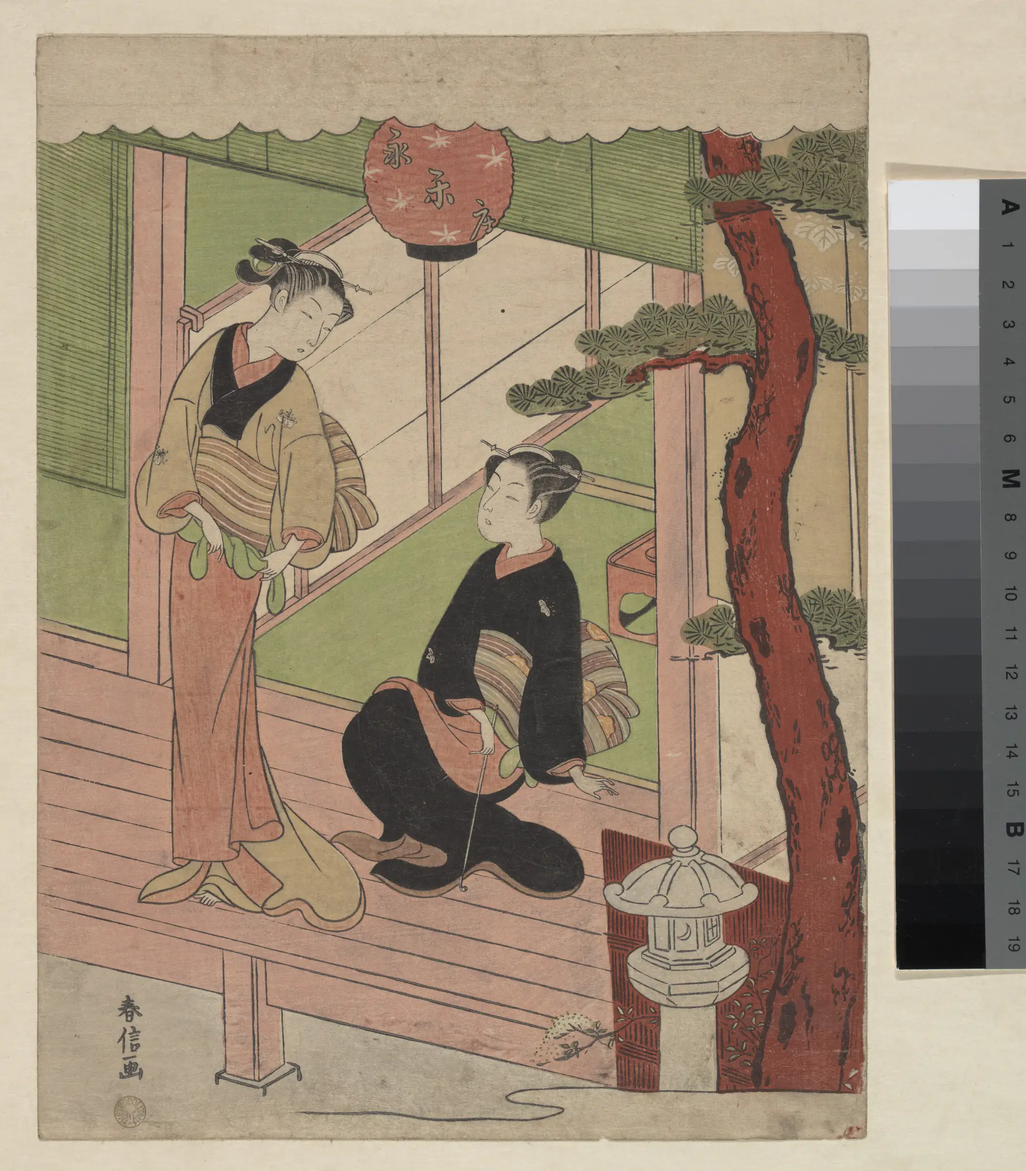
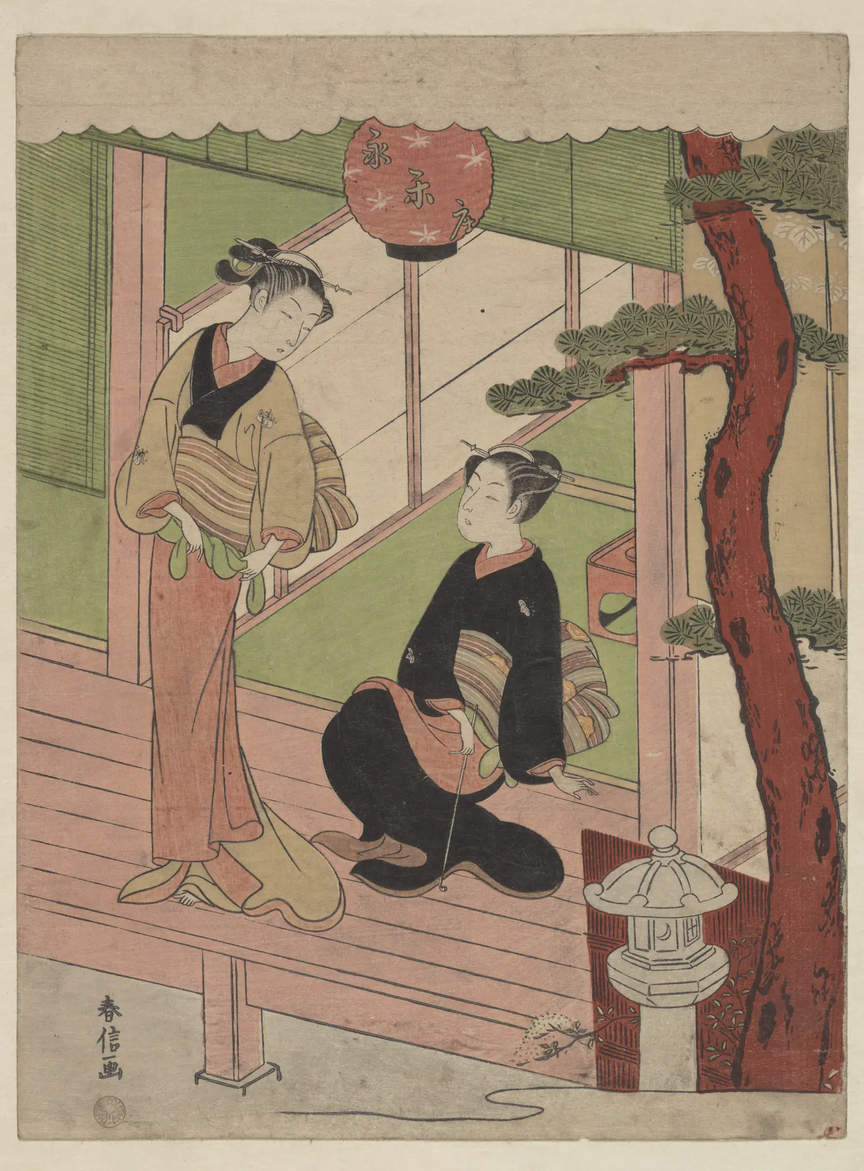
fix(met): cut a scan's grey scale off before sizing it

diff --git a/packages/met/src/import/run-import.ts b/packages/met/src/import/run-import.ts
@@ -11,7 +11,7 @@ import { readJpegHeader } from '../image/jpeg-header.js';
 import { readPreviousCatalog, serialiseCatalog, stampCatalog } from './catalog-file.js';
 import { encodeMaster, type MasterSettings } from './master.js';
 import { ensureOriginal } from './original-cache.js';
-import { assertSellable } from './sellable.js';
+import { assertSellable, CurationError } from './sellable.js';
 
 export interface ImportOptions {
   readonly client: Pick<CollectionClient, 'object' | 'download'>;
@@ -65,10 +65,21 @@ export async function runImport(options: ImportOptions): Promise<ImportResult> {
     const original = await ensureOriginal(client, cacheDir, entry.objectId, raw.primaryImage);
     if (original.downloaded) downloaded++;
     const header = await withFileSource(original.path, readJpegHeader);
-    const encoded = await encodeMaster(original.path, master);
-    // The master is the original turned upright and scaled, so it keeps its
-    // shape; if it does not, the header was misread and every size with it.
-    if (encoded.width > encoded.height !== header.width > header.height) {
+    const crop = entry.crop ?? null;
+    if (
+      crop !== null &&
+      (crop.left + crop.width > header.width || crop.top + crop.height > header.height)
+    ) {
+      throw new CurationError(
+        `${label}: the crop runs past the ${header.width}x${header.height} original`,
+      );
+    }
+    // What the print is made from: the whole original, or the part the crop keeps.
+    const scan = crop ?? header;
+    const encoded = await encodeMaster(original.path, master, crop);
+    // The master is the scan turned upright and scaled, so it keeps its shape;
+    // if it does not, the header was misread and every size with it.
+    if (encoded.width > encoded.height !== scan.width > scan.height) {
       throw new Error(`${label}: the header and the decoded image disagree on orientation`);
     }
 
@@ -96,16 +107,18 @@ export async function runImport(options: ImportOptions): Promise<ImportResult> {
         file,
         width: encoded.width,
         height: encoded.height,
-        originalWidth: header.width,
-        originalHeight: header.height,
+        originalWidth: scan.width,
+        originalHeight: scan.height,
+        crop,
         sha256: createHash('sha256').update(encoded.data).digest('hex'),
         sourceUrl: raw.primaryImage,
       },
     });
 
-    const largest = availableSizes(header).at(-1)?.size ?? 'no size';
+    const largest = availableSizes(scan).at(-1)?.size ?? 'no size';
     log(
-      `${index + 1}/${curation.length} ${label}: ${header.width}x${header.height}` +
+      `${index + 1}/${curation.length} ${label}: ${scan.width}x${scan.height}` +
+        `${crop === null ? '' : ` of ${header.width}x${header.height}`}` +
         `${original.downloaded ? ' (downloaded)' : ''}, prints up to ${largest}; ` +
         `master ${encoded.width}x${encoded.height}, ${Math.round(encoded.data.length / 1024)} KiB`,
     );

diff --git a/packages/met/src/curation.ts b/packages/met/src/curation.ts
@@ -1,10 +1,24 @@
-/** A work Deckle sells: The Met's object, and the two things the shop adds to it. */
+/** A rectangle of an original, in its pixels, measured with the image upright. */
+export interface Crop {
+  readonly left: number;
+  readonly top: number;
+  readonly width: number;
+  readonly height: number;
+}
+
+/** A work Deckle sells: The Met's object, and what the shop adds to it. */
 export interface CuratedWork {
   readonly objectId: number;
   /** Short and readable, unique, and stable once published: URLs and seeds key on it. */
   readonly slug: string;
   /** The Met's title, shortened by hand only where it runs to a sentence or carries its series. */
   readonly shortTitle: string;
+  /**
+   * The part of the original that is the print, where The Met photographed it
+   * beside a grey scale: the shop sells the print, not the museum's target.
+   * The master and the print sizes come from this part alone.
+   */
+  readonly crop?: Crop;
 }
 
 /**
@@ -136,6 +150,9 @@ export const curation: readonly CuratedWork[] = [
     objectId: 36633,
     slug: 'two-young-women-on-a-verandah',
     shortTitle: 'Two Young Women on a Verandah',
+    // The scan runs on past the sheet's right edge (x 2,966) to a grey scale
+    // from x 3,028. The cut leaves as much backdrop on the right as on the left.
+    crop: { left: 70, top: 0, width: 2950, height: 4000 },
   },
   { objectId: 36636, slug: 'a-girl-as-a-komuso', shortTitle: 'A Girl as a Komuso' },
   {

diff --git a/packages/met/src/import/master.ts b/packages/met/src/import/master.ts
@@ -1,4 +1,5 @@
 import sharp from 'sharp';
+import type { Crop } from '../curation.js';
 
 export interface MasterSettings {
   readonly format: 'webp' | 'jpg';
@@ -21,17 +22,20 @@ export interface Master {
 }
 
 /**
- * Turns an original into the master: upright, no larger than `longEdge`, in
- * sRGB and with every piece of metadata dropped (sharp keeps none unless asked).
- * The same original and settings give the same bytes, which the importer relies
- * on to rewrite nothing when nothing changed.
+ * Turns an original into the master: upright, cut to `crop` when there is one,
+ * no larger than `longEdge`, in sRGB and with every piece of metadata dropped
+ * (sharp keeps none unless asked). The same original and settings give the
+ * same bytes, which the importer relies on to rewrite nothing when nothing changed.
  */
 export async function encodeMaster(
   input: string | Buffer,
   { format, longEdge, quality }: MasterSettings,
+  crop: Crop | null = null,
 ): Promise<Master> {
-  const resized = sharp(input, { failOn: 'error' })
-    .autoOrient()
+  // Order matters to sharp: upright first, so the crop is measured as the image is seen.
+  const upright = sharp(input, { failOn: 'error' }).autoOrient();
+  const cut = crop === null ? upright : upright.extract(crop);
+  const resized = cut
     .resize({ width: longEdge, height: longEdge, fit: 'inside', withoutEnlargement: true })
     .toColourspace('srgb');
   const encoded =

diff --git a/packages/met/src/import/run-import.spec.ts b/packages/met/src/import/run-import.spec.ts
@@ -144,6 +144,39 @@ describe('runImport', () => {
     ]);
   });
 
+  it('sizes and masters only the crop where the curation cuts one, and records it', async () => {
+    const crop = { left: 20, top: 0, width: 240, height: 380 };
+    const works = [{ ...curation[0]!, crop }, curation[1]!];
+    const lines: string[] = [];
+    const result = await runImport({
+      client: fakeMet(records, originals).client,
+      curation: works,
+      dataDir,
+      cacheDir: join(dataDir, '.cache'),
+      master,
+      now: () => first,
+      log: (line) => lines.push(line),
+    });
+
+    const [durer, rhino] = result.catalog.works;
+    expect(durer!.image).toMatchObject({
+      width: 81,
+      height: 128,
+      originalWidth: 240,
+      originalHeight: 380,
+      crop,
+    });
+    expect(rhino!.image.crop).toBeNull();
+    expect(lines[0]).toContain('melencolia-i (336228): 240x380 of 300x380');
+  });
+
+  it('stops at a crop that runs past the original', async () => {
+    const works = [{ ...curation[0]!, crop: { left: 100, top: 0, width: 240, height: 380 } }];
+    await expect(run(fakeMet(records, originals), first, works)).rejects.toThrow(
+      'the crop runs past the 300x380 original',
+    );
+  });
+
   it('stops at a curated work that is not in the public domain, before downloading it', async () => {
     const letter = metObjectSchema.parse(theLetter);
     const met = fakeMet([...records, letter], originals);

diff --git a/packages/met/src/import/master.spec.ts b/packages/met/src/import/master.spec.ts
@@ -48,6 +48,35 @@ describe('encodeMaster', () => {
     expect(pixel[1]).toBeLessThan(15);
   });
 
+  it('keeps only the crop, measured on the upright image, before scaling it', async () => {
+    // A sheet on the left and a grey scale on the right: only the sheet is kept.
+    const sheet = { r: 230, g: 220, b: 200 };
+    const original = await sharp({
+      create: { width: 120, height: 100, channels: 3, background: { r: 40, g: 40, b: 40 } },
+    })
+      .composite([
+        {
+          input: { create: { width: 90, height: 100, channels: 3, background: sheet } },
+          left: 0,
+          top: 0,
+        },
+      ])
+      .png()
+      .toBuffer();
+
+    const master = await encodeMaster(original, settings, {
+      left: 10,
+      top: 0,
+      width: 80,
+      height: 100,
+    });
+
+    expect([master.width, master.height]).toEqual([51, 64]);
+    const { data, info } = await sharp(master.data).raw().toBuffer({ resolveWithObject: true });
+    const columns = Array.from({ length: info.width }, (_, x) => data[x * info.channels] ?? 0);
+    expect(Math.min(...columns)).toBeGreaterThan(200);
+  });
+
   it('gives the same bytes for the same original and settings', async () => {
     const original = Buffer.from(await makeJpeg(300, 200, { noise: true }));
     const [first, second] = await Promise.all([

diff --git a/packages/met/src/catalog.ts b/packages/met/src/catalog.ts
@@ -18,15 +18,27 @@ export const artistSchema = z.object({
   endYear: year.nullable(),
 });
 
+const cropSchema = z.object({
+  left: z.int().nonnegative(),
+  top: z.int().nonnegative(),
+  width: z.int().positive(),
+  height: z.int().positive(),
+});
+
 export const imageSchema = z.object({
   /** The reduced master, relative to `data/met/images`. */
   file: z.string().regex(/^[\w.-]+\.(jpg|webp)$/),
   /** The reduced master's own size. */
   width: z.int().positive(),
   height: z.int().positive(),
-  /** The original's size, read from its header: what print sizes are worked out from. */
+  /**
+   * The pixels the print is made from, read from the original's header: all of
+   * it, or the crop's size where there is one. Print sizes are worked out from these.
+   */
   originalWidth: z.int().positive(),
   originalHeight: z.int().positive(),
+  /** The part of the original kept, where the curation cuts a grey scale away; null for all of it. */
+  crop: cropSchema.nullable(),
   sha256: z.string().regex(/^[0-9a-f]{64}$/),
   sourceUrl: z.url(),
 });

diff --git a/packages/met/src/data-set.spec.ts b/packages/met/src/data-set.spec.ts
@@ -24,8 +24,23 @@ describe('data/met', () => {
 
   it('passes readCatalog, the check every seed runs first, with every curated work in order', () => {
     expect(
-      catalog.works.map(({ objectId, slug, shortTitle }) => ({ objectId, slug, shortTitle })),
+      catalog.works.map(({ objectId, slug, shortTitle, image }) => ({
+        objectId,
+        slug,
+        shortTitle,
+        ...(image.crop && { crop: image.crop }),
+      })),
     ).toEqual(curation);
+  });
+
+  it('sizes a cropped work from the crop, not from the whole original', () => {
+    for (const { slug, image } of catalog.works) {
+      if (image.crop === null) continue;
+      expect([image.originalWidth, image.originalHeight], slug).toEqual([
+        image.crop.width,
+        image.crop.height,
+      ]);
+    }
   });
 
   it('has no two impressions of one print', () => {

diff --git a/packages/met/src/import/catalog-file.spec.ts b/packages/met/src/import/catalog-file.spec.ts
@@ -33,6 +33,7 @@ const work: Work = {
     height: 1613,
     originalWidth: 3859,
     originalHeight: 2594,
+    crop: null,
     sha256: 'b'.repeat(64),
     sourceUrl: 'https://images.metmuseum.org/CRDImages/as/original/DP130155.jpg',
   },

diff --git a/packages/met/src/read-catalog.spec.ts b/packages/met/src/read-catalog.spec.ts
@@ -34,6 +34,7 @@ const work: Work = {
     height: 1600,
     originalWidth: 2820,
     originalHeight: 3561,
+    crop: null,
     sha256: 'a'.repeat(64),
     sourceUrl: 'https://images.metmuseum.org/CRDImages/dp/original/DP820348.jpg',
   },

diff --git a/services/commerce/src/seed/catalogue-mapping.spec.ts b/services/commerce/src/seed/catalogue-mapping.spec.ts
@@ -46,6 +46,7 @@ const work: Work = {
     height: 1613,
     originalWidth: 3859,
     originalHeight: 2594,
+    crop: null,
     sha256: 'a'.repeat(64),
     sourceUrl: 'https://images.metmuseum.org/CRDImages/as/original/DP130155.jpg',
   },
